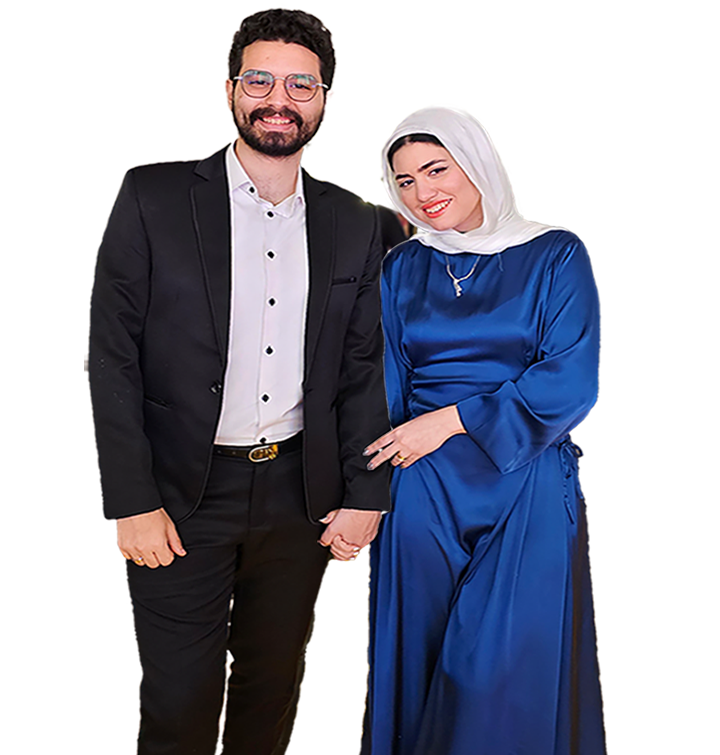
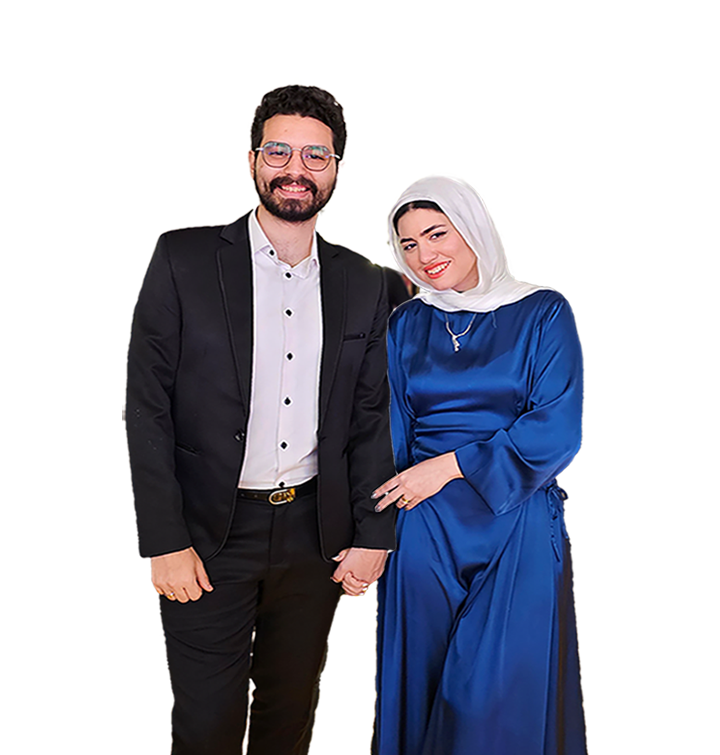
change theme

diff --git a/css/app.css b/css/app.css
@@ -1,4 +1,3 @@
-/* Base Reset */
 * {
     margin: 0;
     padding: 0;
@@ -12,15 +11,13 @@ body {
     text-align: center;
 }
 
-/* Top Banner */
 .top-banner {
-    background-color: #2e6f5e;
+    background-color: #2e3f6f;
     color: white;
     padding: 20px 0;
     font-size: 24px;
 }
 
-/* Countdown Section */
 .countdown-section {
     background: linear-gradient(rgba(0,0,0,0.4), rgba(0,0,0,0.4)), url('../images/background.jpg') center/cover no-repeat;
     color: white;
@@ -33,12 +30,10 @@ body {
     content: '';
     position: absolute;
     bottom: -50px;
-    /* Pulls the arc up */
     left: 0;
     width: 100%;
     height: 100px;
     background-color: white;
-    /* Color of the next section */
     border-top-left-radius: 100% 50px;
     border-top-right-radius: 100% 50px;
     z-index: 1;
@@ -73,7 +68,7 @@ body {
 }
 
 .countdown-box {
-    background-color: #2e6f5e;
+    background-color: #2e3f6f;
     padding: 12px 10px;
     border-radius: 6px;
     width: 70px;
@@ -98,17 +93,15 @@ body {
     margin-top: 4px;
 }
 
-/* Invitation Card */
 .invitation-card {
-    background-color: #b6d1c4;
+    background-color: #b6c5d1;
     margin: 30px auto;
     width: 90%;
     max-width: 350px;
     border-radius: 12px;
-    padding: 20px 15px;
+    padding: 60px 15px;
     box-shadow: 0 4px 12px rgba(0, 0, 0, 0.15);
     overflow: visible;
-    /* <-- allow flower to show outside */
     position: relative;
     z-index: 2;
 }
@@ -132,45 +125,41 @@ body {
     top: 0;
     left: 50%;
     transform: translate(-50%, -60%);
-    /* pull it up even more */
     z-index: 5;
 }
 
 .ceremony-title {
-    margin-top: 50px;
     font-weight: bold;
-    font-size: 16px;
 }
 
 .couple-circle {
     width: 200px;
     height: 200px;
-    background: linear-gradient(to top, #b6d1c4, #e7f0ec);
-    /* soft green gradient */
+    background: linear-gradient(to top, #b6c5d1, #e7f0ec);
     border-radius: 50%;
-    margin: 20px auto 0;
+    margin: 30px auto;
     display: flex;
     align-items: center;
     justify-content: center;
     position: relative;
     z-index: 2;
+    overflow: hidden; /* This is the key to clip the image */
 }
 
 .couple-img {
-    max-width: 160px;
-    border-radius: 10px;
-    z-index: 3;
+    width: 100%;
+    height: 100%;
+    object-fit: cover;
+    border-radius: 50%; /* make the image itself circular */
 }
 
 .details {
-    font-size: 14px;
-    margin-top: 15px;
     line-height: 1.6;
 }
 
 .details i {
     margin-right: 8px;
-    color: #2e6f5e;
+    color: #2e3f6f;
 }
 
 /* Responsive Typography and Layout */
@@ -194,10 +183,6 @@ body {
 
     .label {
         font-size: 11px;
-    }
-
-    .details {
-        font-size: 13px;
     }
 }
 

diff --git a/index.html b/index.html
@@ -4,7 +4,13 @@
 <head>
     <meta charset="utf-8" />
     <meta name="viewport" content="width=device-width, initial-scale=1.0" />
+    <meta name="title" content="Mostafa & Manar Wedding">
+    <meta name="description" content="LET THE COUNT DOWN BEGIN !">
+    <meta property="og:title" content="Mostafa & Manar Wedding">
+    <meta property="og:description" content="LET THE COUNT DOWN BEGIN !">
+    <meta property="og:image" content="https://images.unsplash.com/photo-1514446750685-c27ac87a4403?q=80&w=735&auto=format&fit=crop&ixlib=rb-4.1.0&ixid=M3wxMjA3fDB8MHxwaG90by1wYWdlfHx8fGVufDB8fHx8fA%3D%3D">
     <title>Mostafa & Manar Wedding</title>
+    <link rel="icon" href="images/wedding.png" type="image/x-icon">
     <link rel="stylesheet" href="css/app.css" />
     <link rel="stylesheet" href="https://fonts.googleapis.com/css2?family=Playfair+Display:wght@500;700&display=swap">
     <link rel="stylesheet" href="https://cdnjs.cloudflare.com/ajax/libs/font-awesome/6.5.0/css/all.min.css">
@@ -41,14 +47,15 @@
 
     <div class="invitation-card">
         <img src="images/flowers.png" class="flower-decor" alt="flowers" />
-        <p class="ceremony-title">WEDDING CEREMONY</p>
+        <h3 class="ceremony-title">WEDDING CEREMONY</h3>
         <div class="couple-circle">
             <img src="images/couple.png" alt="Couple" class="couple-img" />
         </div>
         <p class="details">
             <i class="fa-regular fa-calendar-days"></i> Saturday, August 2nd 2025<br />
             <i class="fa-regular fa-clock"></i> 08.00 PM<br />
-            <i class="fa-solid fa-location-dot"></i><a href="https://maps.app.goo.gl/pWon5H1tvUChBQXYA"> Hayat halls, El montazah </a>
+            <i class="fa-solid fa-location-dot"></i><a href="https://maps.app.goo.gl/pWon5H1tvUChBQXYA"> Hayat halls, El
+                montazah </a>
         </p>
     </div>
     <script src="js/app.js"></script>
